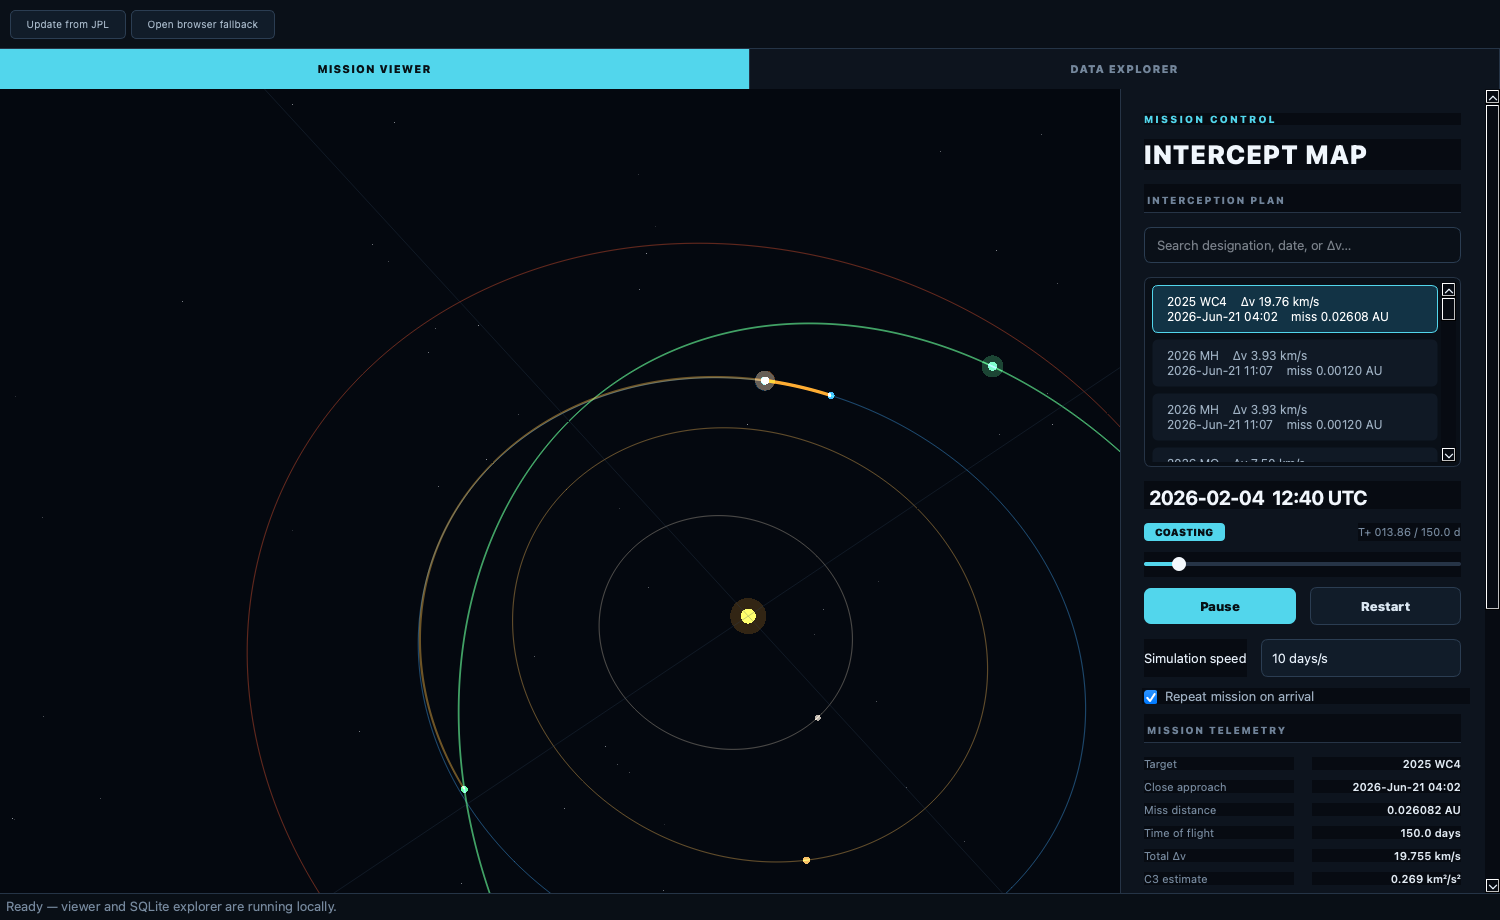
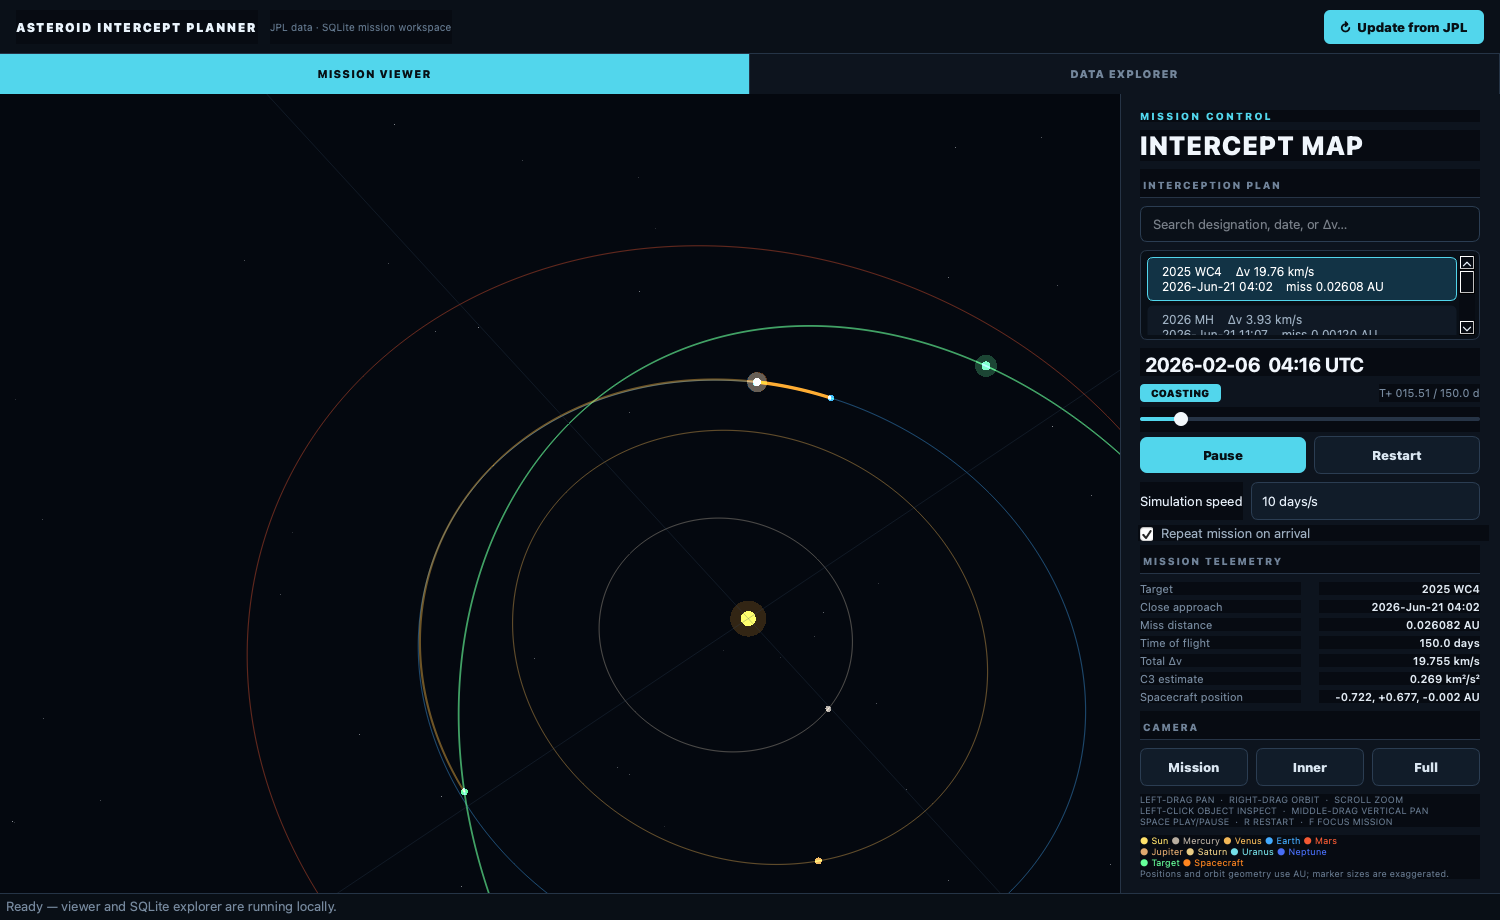
Polish desktop controls and object details

diff --git a/app/neo_viewer_qt.py b/app/neo_viewer_qt.py
@@ -344,6 +344,50 @@ class SolarSystemView(gl.GLViewWidget):
         )
 
 
+class ObjectDetailsDialog(QtWidgets.QDialog):
+    """Non-modal detail card for the selected solar-system object."""
+
+    def __init__(self, parent: QtWidgets.QWidget) -> None:
+        super().__init__(parent)
+        self.setWindowTitle("Object Details")
+        self.setWindowFlag(QtCore.Qt.WindowType.Tool, True)
+        self.setModal(False)
+        self.setMinimumWidth(390)
+        self.resize(430, 300)
+
+        layout = QtWidgets.QVBoxLayout(self)
+        layout.setContentsMargins(22, 20, 22, 18)
+        layout.setSpacing(10)
+        eyebrow = QtWidgets.QLabel("SOLAR-SYSTEM OBJECT")
+        eyebrow.setObjectName("objectEyebrow")
+        self.name_label = QtWidgets.QLabel()
+        self.name_label.setObjectName("objectName")
+        self.details_label = QtWidgets.QLabel()
+        self.details_label.setObjectName("objectDetails")
+        self.details_label.setTextInteractionFlags(
+            QtCore.Qt.TextInteractionFlag.TextSelectableByMouse
+        )
+        self.details_label.setWordWrap(True)
+        close_button = QtWidgets.QPushButton("Close")
+        close_button.setObjectName("secondaryButton")
+        close_button.clicked.connect(self.hide)
+        button_row = QtWidgets.QHBoxLayout()
+        button_row.addStretch(1)
+        button_row.addWidget(close_button)
+        layout.addWidget(eyebrow)
+        layout.addWidget(self.name_label)
+        layout.addWidget(self.details_label, 1)
+        layout.addLayout(button_row)
+
+    def show_object(self, title: str, details: str) -> None:
+        self.setWindowTitle(f"Object Details — {title}")
+        self.name_label.setText(title)
+        self.details_label.setText(details)
+        self.show()
+        self.raise_()
+        self.activateWindow()
+
+
 class MissionViewerWidget(QtWidgets.QWidget):
     TIMER_INTERVAL_MS = 33
 
@@ -386,10 +430,10 @@ class MissionViewerWidget(QtWidgets.QWidget):
         panel = QtWidgets.QFrame()
         panel.setObjectName("controlPanel")
         panel.setMinimumWidth(350)
-        panel.setMaximumWidth(430)
+        panel.setMaximumWidth(410)
         panel_layout = QtWidgets.QVBoxLayout(panel)
-        panel_layout.setContentsMargins(24, 24, 24, 22)
-        panel_layout.setSpacing(14)
+        panel_layout.setContentsMargins(20, 16, 20, 14)
+        panel_layout.setSpacing(8)
 
         eyebrow = QtWidgets.QLabel("MISSION CONTROL")
         eyebrow.setObjectName("eyebrow")
@@ -407,8 +451,8 @@ class MissionViewerWidget(QtWidgets.QWidget):
 
         self.mission_list = QtWidgets.QListWidget()
         self.mission_list.setObjectName("missionList")
-        self.mission_list.setMaximumHeight(190)
-        self.mission_list.setSpacing(3)
+        self.mission_list.setMaximumHeight(142)
+        self.mission_list.setSpacing(2)
         for index, mission in enumerate(self.missions):
             item = QtWidgets.QListWidgetItem(
                 f"{mission.designation}    Δv {mission.total_dv_kms:.2f} km/s\n"
@@ -416,7 +460,7 @@ class MissionViewerWidget(QtWidgets.QWidget):
             )
             item.setData(QtCore.Qt.ItemDataRole.UserRole, index)
             item.setToolTip(mission.name)
-            item.setSizeHint(QtCore.QSize(0, 48))
+            item.setSizeHint(QtCore.QSize(0, 44))
             self.mission_list.addItem(item)
         self.mission_list.currentItemChanged.connect(self._mission_item_changed)
         panel_layout.addWidget(self.mission_list)
@@ -475,7 +519,7 @@ class MissionViewerWidget(QtWidgets.QWidget):
         self.telemetry: dict[str, QtWidgets.QLabel] = {}
         telemetry_grid = QtWidgets.QGridLayout()
         telemetry_grid.setHorizontalSpacing(18)
-        telemetry_grid.setVerticalSpacing(10)
+        telemetry_grid.setVerticalSpacing(5)
         for row, (key, title_text) in enumerate(
             (
                 ("target", "Target"),
@@ -497,17 +541,7 @@ class MissionViewerWidget(QtWidgets.QWidget):
             telemetry_grid.addWidget(value_label, row, 1)
         panel_layout.addLayout(telemetry_grid)
 
-        panel_layout.addWidget(self._section_label("OBJECT INSPECTOR"))
-        self.inspector_name = QtWidgets.QLabel("Select a solar-system object")
-        self.inspector_name.setObjectName("inspectorName")
-        self.inspector_details = QtWidgets.QLabel(
-            "Left-click the Sun, a planet, the target NEO, or the spacecraft to inspect it."
-        )
-        self.inspector_details.setObjectName("inspectorDetails")
-        self.inspector_details.setWordWrap(True)
-        self.inspector_details.setMinimumHeight(96)
-        panel_layout.addWidget(self.inspector_name)
-        panel_layout.addWidget(self.inspector_details)
+        self.object_dialog = ObjectDetailsDialog(self)
         self.view.objectSelected.connect(self._inspect_object)
 
         panel_layout.addWidget(self._section_label("CAMERA"))
@@ -548,17 +582,7 @@ class MissionViewerWidget(QtWidgets.QWidget):
         legend.setObjectName("legend")
         legend.setWordWrap(True)
         panel_layout.addWidget(legend)
-        panel_layout.addStretch(1)
-
-        panel_scroll = QtWidgets.QScrollArea()
-        panel_scroll.setObjectName("panelScroll")
-        panel_scroll.setWidgetResizable(True)
-        panel_scroll.setFrameShape(QtWidgets.QFrame.Shape.NoFrame)
-        panel_scroll.setHorizontalScrollBarPolicy(QtCore.Qt.ScrollBarPolicy.ScrollBarAlwaysOff)
-        panel_scroll.setWidget(panel)
-        panel_scroll.setMinimumWidth(370)
-        panel_scroll.setMaximumWidth(430)
-        splitter.addWidget(panel_scroll)
+        splitter.addWidget(panel)
         splitter.setStretchFactor(0, 1)
         splitter.setStretchFactor(1, 0)
         splitter.setSizes([1080, 380])
@@ -600,8 +624,7 @@ class MissionViewerWidget(QtWidgets.QWidget):
 
     @QtCore.Slot(str, str)
     def _inspect_object(self, title: str, details: str) -> None:
-        self.inspector_name.setText(title)
-        self.inspector_details.setText(details)
+        self.object_dialog.show_object(title, details)
 
     @QtCore.Slot(int)
     def _set_mission(self, index: int) -> None:
@@ -612,10 +635,7 @@ class MissionViewerWidget(QtWidgets.QWidget):
         self.view.set_mission(self.mission)
         self._update_telemetry_static()
         self._render_time()
-        self.inspector_name.setText("Select a solar-system object")
-        self.inspector_details.setText(
-            "Left-click the Sun, a planet, the target NEO, or the spacecraft to inspect it."
-        )
+        self.object_dialog.hide()
         QtCore.QTimer.singleShot(0, self.view.focus_mission)
 
     def _update_telemetry_static(self) -> None:
@@ -730,15 +750,16 @@ QLabel#phaseLabel { color: #071015; background: #52d6ec; border-radius: 4px; pad
 QLabel#elapsedLabel, QLabel#telemetryKey { color: #778a9f; font-size: 11px; }
 QLabel#telemetryValue { color: #e0e9f2; font-size: 11px; font-weight: 650; }
 QLabel#helpText, QLabel#legend { color: #63758a; font-size: 9px; line-height: 1.4; }
-QLabel#inspectorName { color: #52d6ec; font-size: 17px; font-weight: 800; }
-QLabel#inspectorDetails { color: #a7b7c8; background: #0a1018; border: 1px solid #263446; border-radius: 7px; padding: 10px; font-family: "SF Mono", monospace; font-size: 10px; }
+QDialog { background: #0d141e; }
+QLabel#objectEyebrow { color: #52d6ec; font-size: 9px; font-weight: 800; letter-spacing: 1.5px; }
+QLabel#objectName { color: #f0f6fc; font-size: 24px; font-weight: 800; }
+QLabel#objectDetails { color: #b5c5d4; background: #080e15; border: 1px solid #263446; border-radius: 8px; padding: 14px; font-family: "SF Mono", monospace; font-size: 11px; }
 QLineEdit { background: #0a1018; border: 1px solid #2b3d52; border-radius: 7px; padding: 8px 10px; color: #e7f0fa; selection-background-color: #1b4e63; }
 QLineEdit:focus { border-color: #52d6ec; }
 QListWidget#missionList { background: #090f17; border: 1px solid #263446; border-radius: 7px; outline: none; padding: 4px; }
 QListWidget#missionList::item { color: #9eb0c2; background: #101925; border: 1px solid transparent; border-radius: 6px; padding: 6px 9px; }
 QListWidget#missionList::item:hover { border-color: #34506b; color: #eef6fc; }
 QListWidget#missionList::item:selected { background: #123345; border-color: #52d6ec; color: #ffffff; }
-QScrollArea#panelScroll { background: #0d141e; border: 0; }
 QComboBox { background: #111c29; border: 1px solid #2b3d52; border-radius: 7px; padding: 9px 10px; color: #e7f0fa; }
 QComboBox::drop-down { border: 0; width: 24px; }
 QComboBox QAbstractItemView { background: #111c29; selection-background-color: #1b4e63; color: #e7f0fa; }

diff --git a/app/integrated_app.py b/app/integrated_app.py
@@ -83,8 +83,10 @@ class NativeDataExplorer(QtWidgets.QWidget):
         heading_stack.addWidget(subheading)
         heading_row.addLayout(heading_stack)
         heading_row.addStretch(1)
-        refresh_button = QtWidgets.QPushButton("Refresh")
-        browser_button = QtWidgets.QPushButton("Open browser fallback")
+        refresh_button = QtWidgets.QPushButton("Reload local data")
+        refresh_button.setObjectName("secondaryButton")
+        browser_button = QtWidgets.QPushButton("Browser version ↗")
+        browser_button.setObjectName("quietLink")
         refresh_button.clicked.connect(self.refresh)
         browser_button.clicked.connect(self.open_browser)
         heading_row.addWidget(refresh_button)
@@ -139,7 +141,8 @@ class NativeDataExplorer(QtWidgets.QWidget):
         ):
             self.catalog_sort.addItem(label, value)
         self.catalog_sort.currentIndexChanged.connect(self.refresh_catalog)
-        details_button = QtWidgets.QPushButton("Open selected details")
+        details_button = QtWidgets.QPushButton("View selected in browser ↗")
+        details_button.setObjectName("quietLink")
         details_button.clicked.connect(self.open_selected_browser)
         filters.addWidget(self.catalog_search, 1)
         filters.addWidget(self.catalog_sort)
@@ -328,6 +331,24 @@ class IntegratedWindow(QtWidgets.QMainWindow):
         self.setMinimumSize(1220, 780)
         self.resize(1500, 920)
 
+        app_header = QtWidgets.QWidget()
+        app_header.setObjectName("appHeader")
+        header_layout = QtWidgets.QHBoxLayout(app_header)
+        header_layout.setContentsMargins(16, 10, 16, 10)
+        header_layout.setSpacing(12)
+        app_title = QtWidgets.QLabel("ASTEROID INTERCEPT PLANNER")
+        app_title.setObjectName("appTitle")
+        app_context = QtWidgets.QLabel("JPL data · SQLite mission workspace")
+        app_context.setObjectName("appContext")
+        header_layout.addWidget(app_title)
+        header_layout.addWidget(app_context)
+        header_layout.addStretch(1)
+        self.update_button = QtWidgets.QPushButton("↻  Update from JPL")
+        self.update_button.setObjectName("updateButton")
+        self.update_button.clicked.connect(self.update_from_jpl)
+        header_layout.addWidget(self.update_button)
+        self.setMenuWidget(app_header)
+
         self.tabs = QtWidgets.QTabWidget()
         self.tabs.setObjectName("mainTabs")
         self.tabs.setDocumentMode(True)
@@ -340,15 +361,6 @@ class IntegratedWindow(QtWidgets.QMainWindow):
         self.tabs.addTab(self.viewer, "MISSION VIEWER")
         self.tabs.addTab(self.data_explorer, "DATA EXPLORER")
 
-        toolbar = self.addToolBar("Application")
-        toolbar.setObjectName("appToolbar")
-        toolbar.setMovable(False)
-        update_action = toolbar.addAction("Update from JPL")
-        browser_action = toolbar.addAction("Open browser fallback")
-        update_action.triggered.connect(self.update_from_jpl)
-        browser_action.triggered.connect(self.data_explorer.open_browser)
-        self.update_action = update_action
-
         self.update_process.readyReadStandardError.connect(self._capture_update_error)
         self.update_process.finished.connect(self._update_finished)
         self.statusBar().showMessage("Ready — viewer and SQLite explorer are running locally.")
@@ -359,7 +371,8 @@ class IntegratedWindow(QtWidgets.QMainWindow):
         if self.update_process.state() != QtCore.QProcess.ProcessState.NotRunning:
             return
         self.update_errors = ""
-        self.update_action.setEnabled(False)
+        self.update_button.setEnabled(False)
+        self.update_button.setText("Updating JPL data…")
         self.statusBar().showMessage("Fetching JPL data and recomputing interception plans…")
         environment = QtCore.QProcessEnvironment.systemEnvironment()
         environment.insert("PYTHONPATH", str(ROOT_DIR))
@@ -375,7 +388,8 @@ class IntegratedWindow(QtWidgets.QMainWindow):
 
     @QtCore.Slot(int, QtCore.QProcess.ExitStatus)
     def _update_finished(self, exit_code: int, exit_status: QtCore.QProcess.ExitStatus) -> None:
-        self.update_action.setEnabled(True)
+        self.update_button.setEnabled(True)
+        self.update_button.setText("↻  Update from JPL")
         if exit_code != 0 or exit_status == QtCore.QProcess.ExitStatus.CrashExit:
             QtWidgets.QMessageBox.critical(
                 self,
@@ -405,13 +419,13 @@ class IntegratedWindow(QtWidgets.QMainWindow):
 
 APP_STYLESHEET = """
 QMainWindow, QWidget { background: #070b12; color: #e7f0fa; }
+QWidget#appHeader { background: #0a1018; border-bottom: 1px solid #253446; }
+QLabel#appTitle { color: #eaf4fc; font-size: 12px; font-weight: 900; letter-spacing: 1.4px; }
+QLabel#appContext { color: #62778d; font-size: 10px; }
 QTabWidget#mainTabs::pane, QTabWidget#dataTabs::pane { border: 0; background: #070b12; }
 QTabBar::tab { background: #0d141e; color: #74879c; border: 0; border-right: 1px solid #253446; padding: 12px 26px; font-size: 11px; font-weight: 800; letter-spacing: 1px; }
 QTabBar::tab:selected { color: #071015; background: #52d6ec; }
 QTabBar::tab:hover:!selected { color: #e7f0fa; background: #14202d; }
-QToolBar#appToolbar { background: #0a1018; border-bottom: 1px solid #253446; spacing: 5px; padding: 5px 10px; }
-QToolBar#appToolbar QToolButton { color: #a9bacb; background: #111c29; border: 1px solid #2b3d52; border-radius: 5px; padding: 6px 11px; }
-QToolBar#appToolbar QToolButton:hover { color: #ffffff; border-color: #52d6ec; }
 QStatusBar { color: #778a9f; background: #090f16; border-top: 1px solid #253446; }
 QLabel#dataTitle { color: #f0f6fc; font-size: 24px; font-weight: 800; }
 QLabel#dataSubtitle, QLabel#tableStatus, QLabel#tableHint { color: #718499; font-size: 10px; }
@@ -420,6 +434,12 @@ QLabel#metricName { color: #718499; font-size: 9px; font-weight: 800; letter-spa
 QLabel#metricValue { color: #f0f6fc; font-size: 19px; font-weight: 800; }
 QPushButton { background: #52d6ec; color: #071015; border: 0; border-radius: 6px; padding: 8px 12px; font-weight: 800; }
 QPushButton:hover { background: #78e3f4; }
+QPushButton#updateButton { background: #52d6ec; color: #071015; padding: 9px 16px; }
+QPushButton#updateButton:disabled { background: #183744; color: #76a2af; }
+QPushButton#secondaryButton { background: #111c29; color: #b8c7d5; border: 1px solid #2b3d52; }
+QPushButton#secondaryButton:hover { color: #ffffff; border-color: #52d6ec; }
+QPushButton#quietLink { background: transparent; color: #657a8f; border: 0; padding: 6px 4px; font-size: 10px; font-weight: 600; }
+QPushButton#quietLink:hover { color: #a9bdcf; text-decoration: underline; }
 QLineEdit, QComboBox, QPlainTextEdit { background: #0a1018; border: 1px solid #2b3d52; border-radius: 6px; padding: 7px 9px; color: #e7f0fa; }
 QPlainTextEdit#queryEditor { font-family: "SF Mono", monospace; font-size: 11px; }
 QTableWidget { background: #090f17; alternate-background-color: #0d1621; color: #c4d2df; border: 1px solid #263446; gridline-color: #1d2a3a; selection-background-color: #17475c; selection-color: #ffffff; }

diff --git a/README.md b/README.md
@@ -49,7 +49,7 @@ The application opens directly with two tabs:
 1. **Mission Viewer** contains the animated 3D solar system and interception controls.
 2. **Data Explorer** contains the searchable catalog and read-only SQLite query workspace.
 
-**Update from JPL** refreshes the database and mission plans. **Open browser fallback** keeps the Flask version available when a browser is more convenient.
+The integrated **Update from JPL** control refreshes the database and mission plans. A subdued **Browser version** link keeps the Flask interface available as a fallback.
 
 ![Native SQLite data explorer](docs/data-explorer.png)
 
@@ -62,7 +62,7 @@ The viewer is modeled after a spaceflight map screen rather than a decorative an
 - Search and select any stored interception from the mission cards in the side panel.
 - Watch the date, elapsed mission time, spacecraft coordinates, Δv, C3, and encounter metrics.
 - Left-drag to pan in the viewing plane, right-drag to orbit, middle-drag to pan vertically, and use the wheel to zoom.
-- Left-click the Sun, planets, target NEO, or spacecraft to inspect its current state.
+- Left-click the Sun, planets, target NEO, or spacecraft to open its current state in a separate, movable detail window.
 - Distinct halos and colors identify Earth, the target NEO, and the intercept spacecraft at a glance.
 - Switch between mission, inner-system, and full-system camera presets.
 - Scrub to any mission time or play continuously at 0.5-100 simulated days per second.